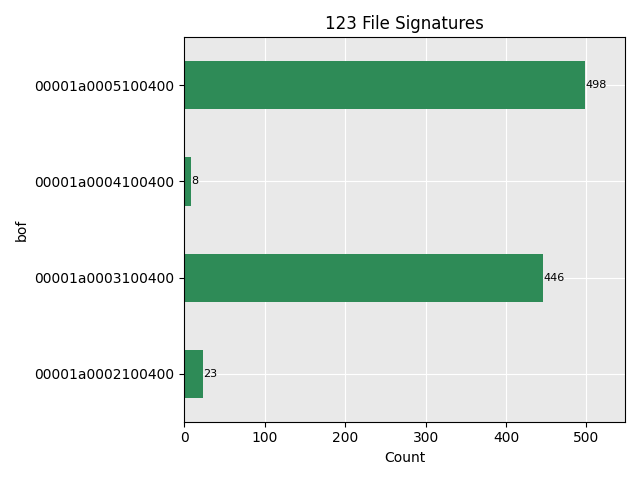
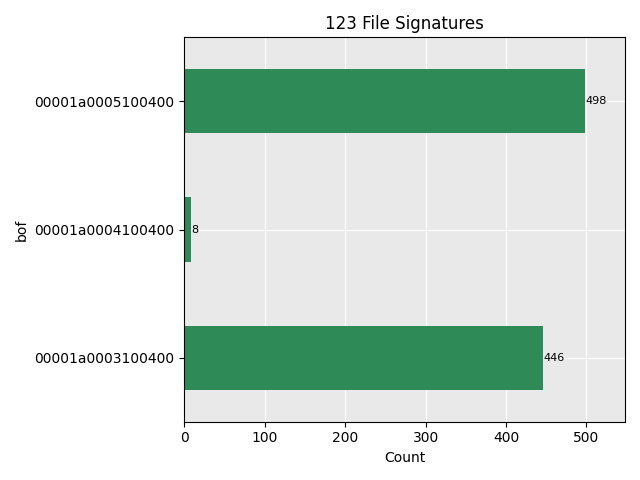
Update plots

diff --git a/prw/main.py b/prw/main.py
@@ -2,6 +2,7 @@
 # Imports
 # -----------------------------------------------------------------------------
 
+import subprocess
 import pandas as pd
 import numpy as np
 import matplotlib.pyplot as plt
@@ -9,7 +10,7 @@ from pathlib import Path
 from typing import List, Literal
 from tqdm import tqdm
 from matplotlib import rcParams
-from prw.plot_utils import add_horizontal_value_labels
+from prw.plot_utils import add_horizontal_value_labels, add_vertical_value_labels
 
 ## Matplotlib params
 rcParams["axes.facecolor"] = "#e9e9e9"
@@ -29,18 +30,36 @@ def parse_data(csv_file: Path, bof_bytes: int) -> pd.DataFrame:
     return df
 
 
-def bar_plot_df(df: pd.DataFrame, title: str, save_to: Path) -> None:
+def barh_plot_df(df: pd.DataFrame, title: str, save_to: Path) -> None:
     plt.figure()
     ax = df.plot.barh(grid=True, color="seagreen")
     # Axes
     ax.grid(color="white")
-    if "123" in title:
-        ax.set_xlim(0, df.max() + 10)
-    elif "LWP" in title:
-        ax.set_xlim(0, df.max() + 10)
+    # if "123" in title:
+    #     ax.set_xlim(0, df.max() + 50)
+    # elif "LWP" in title:
+    #     ax.set_xlim(0, df.max() + 10)
     # Title & labels
     plt.title(title)
     add_horizontal_value_labels(ax, spacing=0.5)
+    plt.xlabel("Count")
+
+    plt.tight_layout()
+    plt.savefig(save_to)
+    plt.clf()
+
+def bar_plot_df(df: pd.DataFrame, title: str, save_to: Path) -> None:
+    plt.figure()
+    ax = df.plot.bar(grid=True, rot=45)
+    # Axes
+    ax.grid(color="white")
+    # if "123" in title:
+    #     ax.set_xlim(0, df.max() + 50)
+    # elif "LWP" in title:
+    #     ax.set_xlim(0, df.max() + 10)
+    # # Title & labels
+    plt.title(title)
+    # add_vertical_value_labels(ax, spacing=0.5)
     plt.xlabel("Count")
 
     plt.tight_layout()
@@ -56,23 +75,60 @@ def bar_plot_df(df: pd.DataFrame, title: str, save_to: Path) -> None:
 def main() -> None:
     data_path: Path = Path(__file__).parent.resolve() / "data"
     plot_path: Path = Path(__file__).parent.resolve() / "plots"
-    df_123: pd.DataFrame = parse_data(data_path / "open_123_files.csv", 16)
-    grouped_123 = df_123.groupby("bof")["id"].count()
-    bar_plot_df(
-        grouped_123,
-        "123 File Signatures",
-        save_to=plot_path / "open_123_plot.png",
-    )
-    df_lwp: pd.DataFrame = parse_data(data_path / "open_lwp_files.csv", 64)
-    df_lwp = df_lwp[df_lwp.puid == "x-fmt/340"]
-    grouped_lwp = df_lwp.groupby("bof")["id"].count()
-    new_index = [f"[...]{index[-4:]}" for index in list(grouped_lwp.index)]
-    grouped_lwp.index = pd.Index(new_index, name="bof")
-    bar_plot_df(
-        grouped_lwp,
-        "LWP x-fmt 340 File Signatures",
-        save_to=plot_path / "open_lwp_plot.png",
-    )
+    # file_info = []
+    # linux_123: pd.DataFrame = pd.read_csv(data_path / "123_df.csv")
+    # for row in linux_123.itertuples():
+    #     result = subprocess.run(["wslpath", row.path], capture_output=True)
+    #     linux_path = Path(result.stdout.decode().strip())
+    #     file_result = subprocess.run(["file", "-b", linux_path], capture_output=True)
+    #     file_stdout = file_result.stdout.decode().strip()
+    #     file_str= "".join(file_stdout.split(",")[:2])
+    #     file_str=file_str.title()
+    #     if "Targa" in file_str:
+    #         file_str = "Targa Image Data"
+    #     file_info.append(file_str)
+    # linux_123["file_info"] = file_info
+    # linux_123.to_csv(data_path/"123_df_updated.csv")
+    updated_123_df = pd.read_csv(data_path/"123_df_updated.csv")
+    grouped = updated_123_df.groupby(['bof', 'file_info'])["id"].count().unstack("bof")
+    new_index = []
+    for inx in grouped.index:
+        if "Unknown" in inx:
+            new_index.append("Unknown")
+        if "9.8" in inx:
+            new_index.append("Version 9.8")
+        if "97" in inx:
+            new_index.append("Version 97")
+        if "Targa" in inx:
+            new_index.append("Targa Image")
+    grouped.index = pd.Index(new_index, name="file_info")
+    bar_plot_df(grouped, "123 Signatures & File Information", save_to=plot_path/"123_group.png")
+        
+    # print(linux_123)
+    # plot_path: Path = Path(__file__).parent.resolve() / "plots"
+    # df_123: pd.DataFrame = parse_data(data_path / "123_files.csv", 16)
+    # df_123 = df_123[df_123.puid == "aca-fmt/1"]
+    # df_123.to_csv(data_path / "test.csv", index=False)
+    # grouped_123 = df_123.groupby("bof")["id"].count()
+    # bar_plot_df(
+    #     grouped_123,
+    #     "123 File Signatures",
+    #     save_to=plot_path / "123_plot.png",
+    # )
+
+    # for row in df_123.itertuples():
+    #     print(Path(row.path))
+
+    # df_lwp: pd.DataFrame = parse_data(data_path / "open_lwp_files.csv", 64)
+    # df_lwp = df_lwp[df_lwp.puid == "x-fmt/340"]
+    # grouped_lwp = df_lwp.groupby("bof")["id"].count()
+    # new_index = [f"[...]{index[-4:]}" for index in list(grouped_lwp.index)]
+    # grouped_lwp.index = pd.Index(new_index, name="bof")
+    # bar_plot_df(
+    #     grouped_lwp,
+    #     "LWP x-fmt 340 File Signatures",
+    #     save_to=plot_path / "open_lwp_plot.png",
+    # )
 
 
 if __name__ == "__main__":
